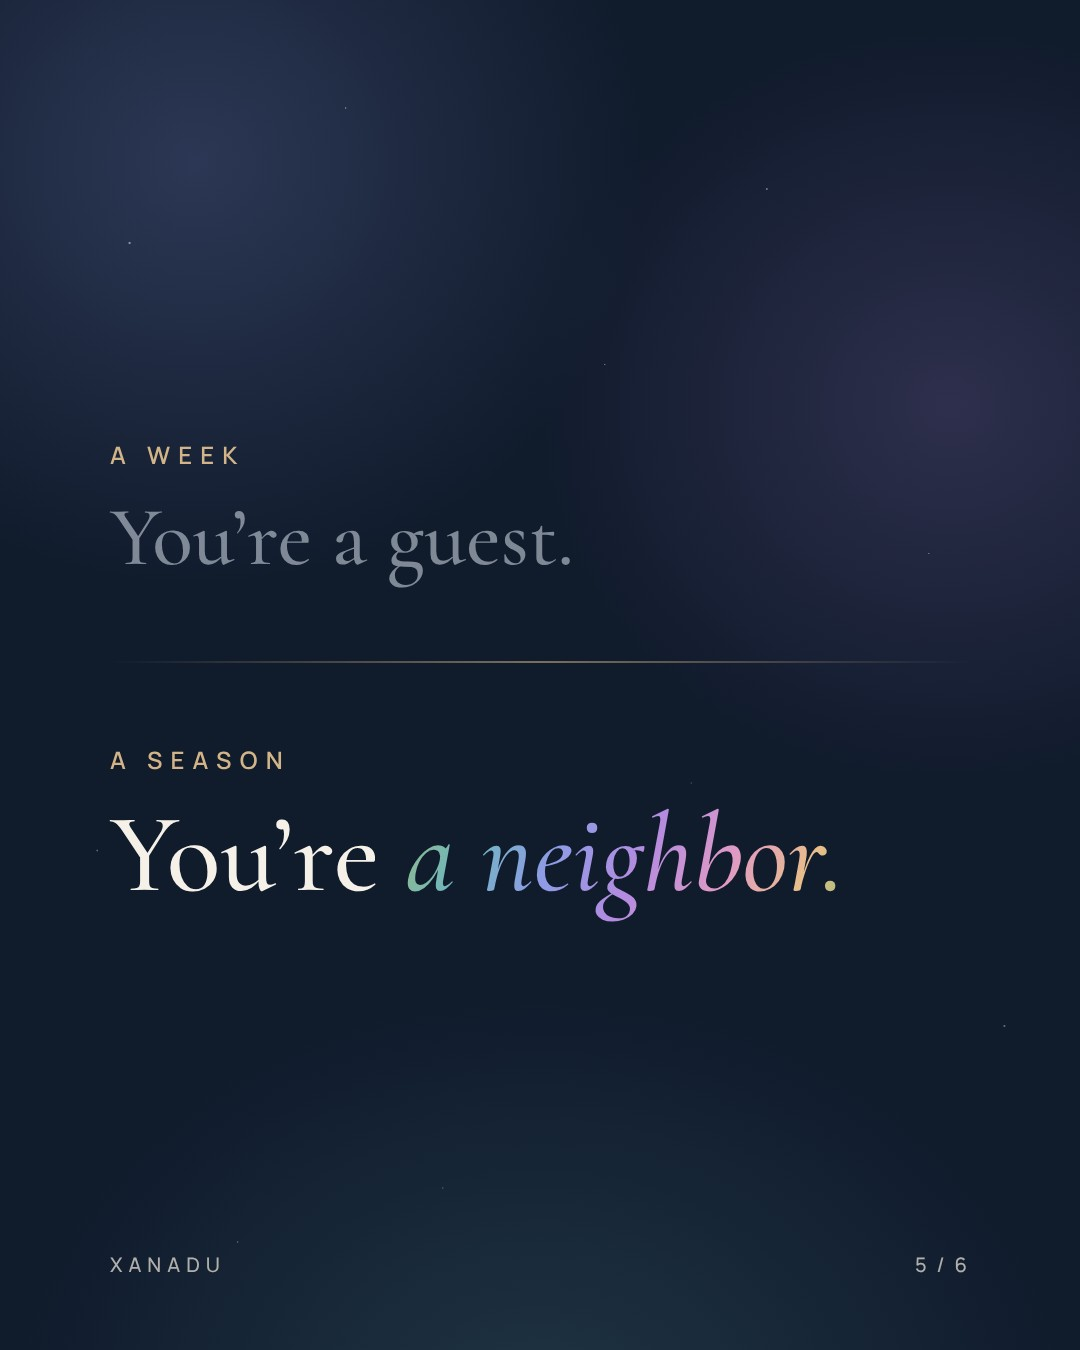
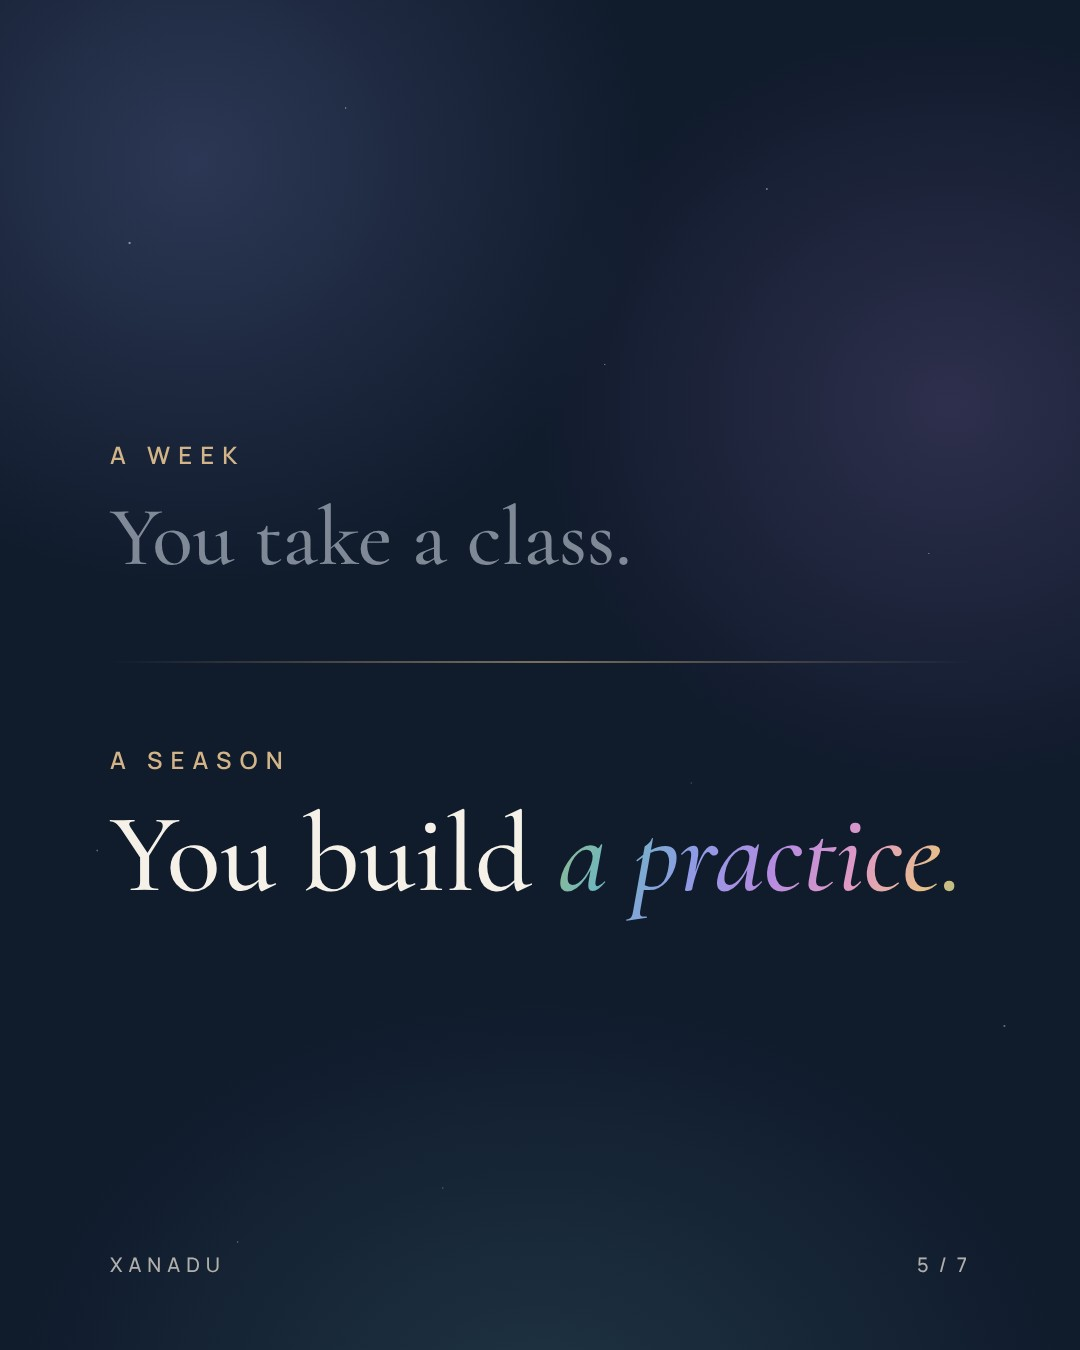
Console Instagram: in-between posts become carousels; grid rotates white, photo, navy, photo
Posts 16–21 are now 6–8 slide carousels. Covers for 13, 17 and 19 swap to text
so the grid alternates text and photo posts, with text covers alternating
white and navy. New dates for 12, 13, 14, 15 and the manual posts keep the
rotation in chronological order.

Claude-Session: https://claude.ai/code/session_012MTSFXE7uwRjGnM1HktFE9

Changed region(s): [[0.2444, 0.5911, 0.8861, 0.6844], [0.2139, 0.3733, 0.4278, 0.4356], [0.4583, 0.3733, 0.5806, 0.4356]]

diff --git a/console/src/social/posts.ts b/console/src/social/posts.ts
@@ -223,7 +223,7 @@ Join the waitlist (link in bio).
   {
     id: '12-signs',
     title: 'Signs you need a season, not a vacation',
-    date: '2026-11-03T10:00',
+    date: '2026-10-31T10:00',
     format: 'Carousel',
     audience: 'Seekers',
     slides: 7,
@@ -242,10 +242,10 @@ Send this to the friend who needs one. Join the waitlist (link in bio).
   {
     id: '13-week-vs-season',
     title: 'A week vs a season',
-    date: '2026-11-05T10:00',
+    date: '2026-10-26T18:00',
     format: 'Carousel',
     audience: 'Seekers',
-    slides: 6,
+    slides: 7,
     aiImagery: true,
     status: 'draft',
     caption: `A week vs a season. 🌊
@@ -261,7 +261,7 @@ Which one are you planning? Tell us below. Join the waitlist (link in bio).
   {
     id: '14-three-ways-in',
     title: 'Three ways into Xanadu (reel)',
-    date: '2026-11-04T10:00',
+    date: '2026-11-02T10:00',
     format: 'Reel',
     audience: 'Everyone',
     slides: 1,
@@ -282,7 +282,7 @@ Which one are you? Tell us below. Seekers: join the waitlist. Spaces and guides:
   {
     id: '15-grows-together',
     title: 'What grows here grows together (reel)',
-    date: '2026-11-02T10:00',
+    date: '2026-11-03T10:00',
     format: 'Reel',
     audience: 'Spaces & guides',
     slides: 1,
@@ -300,11 +300,11 @@ Founding circle in Nosara: free to join, no commission. Spaces and guides, apply
   },
   {
     id: '16-pace-of-nature',
-    title: 'Quote · Adopt the pace of nature',
-    date: '2026-10-22T18:00',
-    format: 'Single image',
+    title: 'Adopt the pace of nature (4 ways)',
+    date: '2026-10-21T18:00',
+    format: 'Carousel',
     audience: 'Everyone',
-    slides: 1,
+    slides: 6,
     aiImagery: false,
     status: 'manual',
     caption: `“Adopt the pace of nature: her secret is patience.” Ralph Waldo Emerson
@@ -315,11 +315,11 @@ Where in your life could you slow down this week? 🌿
   },
   {
     id: '17-rest-is-rhythm',
-    title: 'Note · Rest is part of the rhythm',
-    date: '2026-10-24T18:00',
-    format: 'Single image',
+    title: 'Rest is part of the rhythm (kinds of rest)',
+    date: '2026-10-23T18:00',
+    format: 'Carousel',
     audience: 'Everyone',
-    slides: 1,
+    slides: 7,
     aiImagery: false,
     status: 'manual',
     caption: `Rest is not a reward. It's part of the rhythm. ✦
@@ -330,11 +330,11 @@ Save this for the week you need the reminder.
   },
   {
     id: '18-morning-light',
-    title: 'Wellness · Step outside in the first hour',
-    date: '2026-10-27T18:00',
-    format: 'Single image',
+    title: 'A morning-light ritual',
+    date: '2026-10-25T18:00',
+    format: 'Carousel',
     audience: 'Everyone',
-    slides: 1,
+    slides: 6,
     aiImagery: false,
     status: 'manual',
     caption: `A small ritual: step outside in the first hour of your day. ☀
@@ -347,11 +347,11 @@ Will you try it tomorrow?
   },
   {
     id: '19-deliberately',
-    title: 'Quote · Live deliberately',
-    date: '2026-10-31T18:00',
-    format: 'Single image',
+    title: 'Five questions for living deliberately',
+    date: '2026-10-27T18:00',
+    format: 'Carousel',
     audience: 'Everyone',
-    slides: 1,
+    slides: 8,
     aiImagery: false,
     status: 'manual',
     caption: `“I went to the woods because I wished to live deliberately.” Henry David Thoreau, Walden
@@ -362,11 +362,11 @@ What would living deliberately look like for you? Tell us below. 🌲
   },
   {
     id: '20-two-hours',
-    title: 'Wellness · 120 minutes a week in nature',
-    date: '2026-11-02T18:00',
-    format: 'Single image',
+    title: '120 minutes a week in nature',
+    date: '2026-10-24T18:00',
+    format: 'Carousel',
     audience: 'Everyone',
-    slides: 1,
+    slides: 6,
     aiImagery: false,
     status: 'manual',
     caption: `120 minutes a week. 🌿
@@ -379,11 +379,11 @@ It doesn't have to be all at once. How are you getting your two hours this week?
   },
   {
     id: '21-not-in-a-hurry',
-    title: 'Note · Not found in a hurry',
-    date: '2026-11-05T18:00',
-    format: 'Single image',
+    title: 'Things you only find slowly',
+    date: '2026-10-22T18:00',
+    format: 'Carousel',
     audience: 'Everyone',
-    slides: 1,
+    slides: 6,
     aiImagery: false,
     status: 'manual',
     caption: `Not everything worth finding is found in a hurry. ✦
